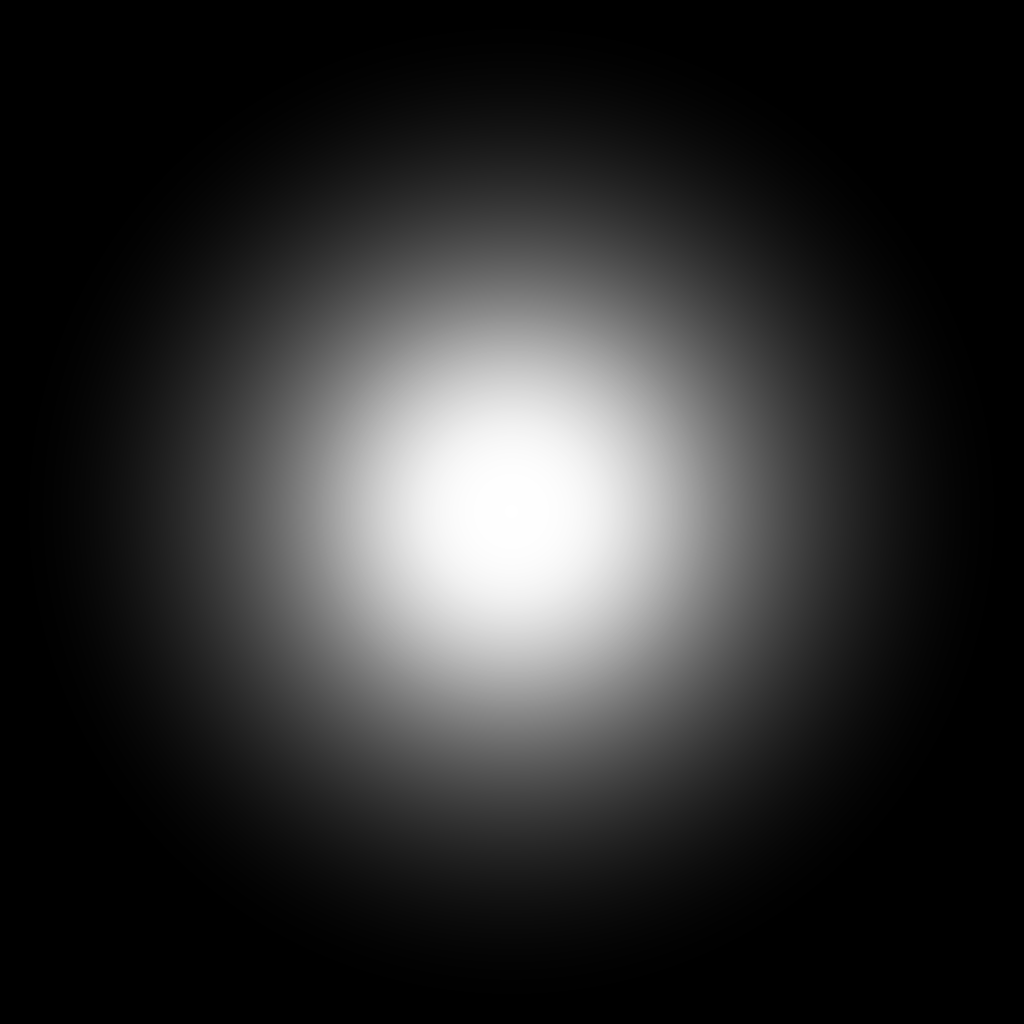
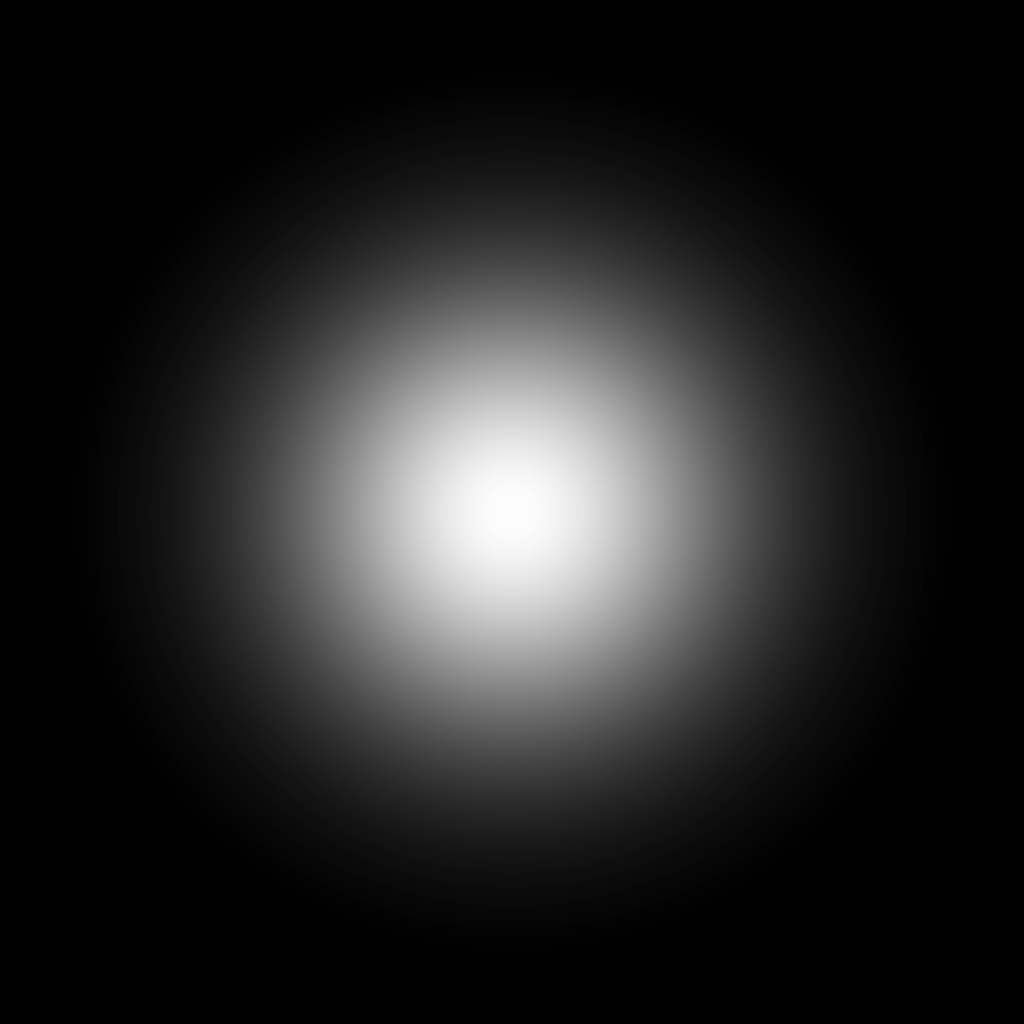
Performance boost for lights.

Changed region(s): [[0.25, 0.25, 0.75, 0.75]]

diff --git a/src/map/Map.cpp b/src/map/Map.cpp
@@ -3,7 +3,7 @@
 
 Map::Map()
 {
-	m_quadtree.reset(new Quadtree(sf::Rect<int>(-2048*2, -2048*2, 2048*4, 2048*4), 0));
+	m_quadtree.reset(new Quadtree(sf::Rect<int>(-2048*5, -2048*5, 2048*10, 2048*10), 0));
 	m_textureHolder.reset(new TextureHolder());
 	m_objectIdTracker.reset(new ObjectIdTracker());
 	m_shadowUpdater.reset(new ShadowUpdater());
@@ -14,19 +14,17 @@ Map::Map()
 
 	GameObject gameObject;
 	
-	int rocks = 50;
+	int rocks = 250;
 
 	for (int j = 0; j < rocks; ++j)
 	{
 		float angle = j*(2*M_PI)/rocks;
-		auto polygons = m_rockGenerator->getRock(6, {10, 2},  {std::cos(angle)*(1000 + rand()%500), std::sin(angle)*(1000 + rand()%500)});
+		auto polygons = m_rockGenerator->getRock(5 + rand() % 2, {5, 2}, {std::cos(angle)*(rand()%5000), std::sin(angle)*(rand()%5000)});
 
 		for (int i = 0; i < polygons.size(); ++i)
 		{
 			gameObject.assign(m_objectIdTracker->addObject());
 			gameObject.setPolygon(polygons[i]);
-			gameObject.setTexture(m_textureHolder->getTexture("Material"));
-			gameObject.setTextureRect(sf::Rect<int>(gameObject.getBoundingBox().left/2, gameObject.getBoundingBox().top/2, gameObject.getBoundingBox().width/2, gameObject.getBoundingBox().height/2));
 
 			std::shared_ptr<Object> object;
 			object.reset(new GameObject(gameObject));
@@ -43,13 +41,6 @@ Map::~Map()
 
 void Map::update(const sf::RenderWindow& window, const Camera& camera)
 {
-	math::Polygon viewport;
-	viewport.addPoint(sf::Vector2f(-5000, -5000));
-	viewport.addPoint(sf::Vector2f(5000, -5000));
-	viewport.addPoint(sf::Vector2f(5000, 5000));
-	viewport.addPoint(sf::Vector2f(0, 5000));
-	viewport.constructEdges();
-
 	if (auto light = m_light.lock())
 		light->move(sf::Mouse::getPosition(window).x + camera.getCenter().x - camera.getSize().x/2 - light->getPosition().x, sf::Mouse::getPosition(window).y + camera.getCenter().y - camera.getSize().y/2 - light->getPosition().y);
 
@@ -59,10 +50,9 @@ void Map::update(const sf::RenderWindow& window, const Camera& camera)
 		light.assign(m_objectIdTracker->addObject());
 		//light.setPosition(sf::Vector2f(1000 + std::rand()%2000, 500 + std::rand()%1000));
 		light.setTexture(m_textureHolder->getTexture("light"));
-		light.setColor(sf::Color(std::rand()%255, std::rand()%255, std::rand()%255));
-//		light.setColor(sf::Color(72, 252, 19));
-		m_quadtree->insert(light);
-		m_objects.push_back(m_quadtree->getObject(light.getId()));
+		//light.setColor(sf::Color(std::rand()%255, std::rand()%255, std::rand()%255));
+		light.setColor(sf::Color(255, 100, 19));
+		m_objects.push_back(m_shadowUpdater->insert(light));
 		m_light = m_objects.back();
 	}
 	space = sf::Keyboard::isKeyPressed(sf::Keyboard::Space);
@@ -87,8 +77,6 @@ void Map::draw(sf::RenderTarget& target, sf::RenderStates states) const
 {
 	for (int i = 0; i < m_objects.size(); ++i)
 		m_objects[i]->draw(target, states);
-
-	target.draw(*m_quadtree);
 }
 
 void Map::load(const std::string& filePath)

diff --git a/src/object/Light.cpp b/src/object/Light.cpp
@@ -4,17 +4,17 @@
 Light::Light() :
 	Object()
 {
-	m_radius = 512;
+	m_radius = 1024;
 	
 	m_polygon.clear();
 	m_vertexArray.setPrimitiveType(sf::PrimitiveType::TrianglesFan);
 	m_color = sf::Color(255, 0, 255);
 	setTarget(sf::Vector2f(1000 + std::rand()%2000, std::rand()%2000));
 
-	m_boundingBox.left = -m_radius;
-	m_boundingBox.top = -m_radius;
-	m_boundingBox.width = m_radius*2;
-	m_boundingBox.height = m_radius*2;
+	m_boundingBox.left = getPosition().x - m_radius/2.5f;
+	m_boundingBox.top = getPosition().y - m_radius/2.5f;
+	m_boundingBox.width = m_radius/1.25f;
+	m_boundingBox.height = m_radius/1.25f;
 }
 
 Light::~Light()
@@ -28,8 +28,8 @@ void Light::setTarget(const sf::Vector2f& target)
 
 void Light::update()
 {
-	m_boundingBox.left = m_position.x - m_radius;
-	m_boundingBox.top = m_position.y - m_radius;
+	m_boundingBox.left = m_position.x - m_radius/2.5f;
+	m_boundingBox.top = m_position.y - m_radius/2.5f;
 	if (math::distance<float>(getPosition(), m_target) < 50)
 	{
 		setTarget(sf::Vector2f(-500 + std::rand()%1000, -500 + std::rand()%1000));
@@ -53,6 +53,14 @@ void Light::setRadius(const float& radius)
 
 void Light::draw(sf::RenderTarget& target, sf::RenderStates states) const
 {
+	/*sf::RectangleShape rect(sf::Vector2f(getBoundingBox().width, getBoundingBox().height));
+	rect.setPosition(sf::Vector2f(getBoundingBox().left, getBoundingBox().top));
+	rect.setFillColor(sf::Color(0, 0, 0, 0));
+	rect.setOutlineThickness(1.f);
+	rect.setOutlineColor(sf::Color(255, 0, 0));
+	target.draw(rect);
+	*/
+
 	if (auto texture = m_texture.lock())
 			states.texture = texture.get();
 

diff --git a/src/object/ShadowUpdater.cpp b/src/object/ShadowUpdater.cpp
@@ -19,25 +19,29 @@ void ShadowUpdater::updateShadows(const sf::Rect<int>& boundingBox)
 {
 	if (auto quadtree = m_quadtree.lock())
 	{
-		std::vector<Light*> lights;
-		quadtree->getLights(lights, boundingBox);
-
-		for (int i = 0; i < lights.size(); ++i)
+		for (int i = 0; i < m_lights.size(); ++i)
 		{
-			lights[i]->update();
+			m_lights[i]->update();
 
-			if (m_lightPositions[lights[i]->getId().id] != lights[i]->getPosition())
+			if (m_lightPositions[m_lights[i]->getId().id] != m_lights[i]->getPosition())
 			{
-				m_lightPositions[lights[i]->getId().id] = lights[i]->getPosition();
-				lights[i]->clear();
+				m_lightPositions[m_lights[i]->getId().id] = m_lights[i]->getPosition();
+				m_lights[i]->clear();
 				std::vector<GameObject*> gameObjects;
-				quadtree->getGameObjects(gameObjects, lights[i]->getBoundingBox());
+				quadtree->getGameObjects(gameObjects, m_lights[i]->getBoundingBox());
+				std::cout << gameObjects.size() << std::endl;
 				for (int j = 0; j < gameObjects.size(); ++j)
-					lights[i]->accountForObject(gameObjects[j]->getPolygon());
+					m_lights[i]->accountForObject(gameObjects[j]->getPolygon());
 
-				lights[i]->buildLightShape();
+				m_lights[i]->buildLightShape();
 			}
 		}
 	}
+}
+
+std::shared_ptr<Light> ShadowUpdater::insert(const Light& light)
+{
+	m_lights.push_back(std::shared_ptr<Light>(new Light(light)));
+	return m_lights.back();
 }
 

diff --git a/src/map/procedural/RockGenerator.cpp b/src/map/procedural/RockGenerator.cpp
@@ -22,37 +22,17 @@ std::vector<math::Polygon> RockGenerator::getRock(const unsigned short& pointCou
 	{
 		sf::Vector2f point = position;
 
-		if (polygon.getPointCount() == 3)
-		{
-			point = polygon.getPoint(2);
-			polygon.constructEdges();
-			polygons.push_back(polygon);
-			polygon.clear();
-		}
-
 		if (polygon.getPointCount() == 0)
-		{
-			if (!polygons.empty())
-				polygon.addPoint(position);
-
 			polygon.addPoint(point);
-		}
 		
 		float angle = i*((2*M_PI)/(pointCount));
 		auto radius = size.x + rand() % size.y;
 
-		if (i == pointCount)
-		{
-			polygon.addPoint(polygons[0].getPoint(2));
-			polygon.constructEdges();
-			polygons.push_back(polygon);
-		}
-		else
-		{
-			polygon.addPoint(sf::Vector2f(std::cos(angle)*radius + position.x, std::sin(angle)*radius + position.y));
-		}
+		polygon.addPoint(sf::Vector2f(std::cos(angle)*radius + position.x, std::sin(angle)*radius + position.y));
 	}
 
+	polygon.convexHull();
+	polygon.constructEdges();
 	polygons.push_back(polygon);
 
 	return polygons;

diff --git a/src/object/ShadowUpdater.hpp b/src/object/ShadowUpdater.hpp
@@ -13,9 +13,11 @@ public:
 
 	void setQuadtree(std::weak_ptr<Quadtree> quadtree);
 	void updateShadows(const sf::Rect<int>& boundingBox);
+	std::shared_ptr<Light> insert(const Light& light);
 
 private:
 	std::weak_ptr<Quadtree> m_quadtree;
 	std::map<unsigned short, sf::Vector2f> m_lightPositions;
+	std::vector<std::shared_ptr<Light>> m_lights;
 };
 

diff --git a/src/application/main.cpp b/src/application/main.cpp
@@ -2,7 +2,7 @@
 
 int main(int argc, char** argv)
 {
-	srand(666);
+	srand(time(NULL));
 	Application application(argc, argv);
 	return 0;
 }
